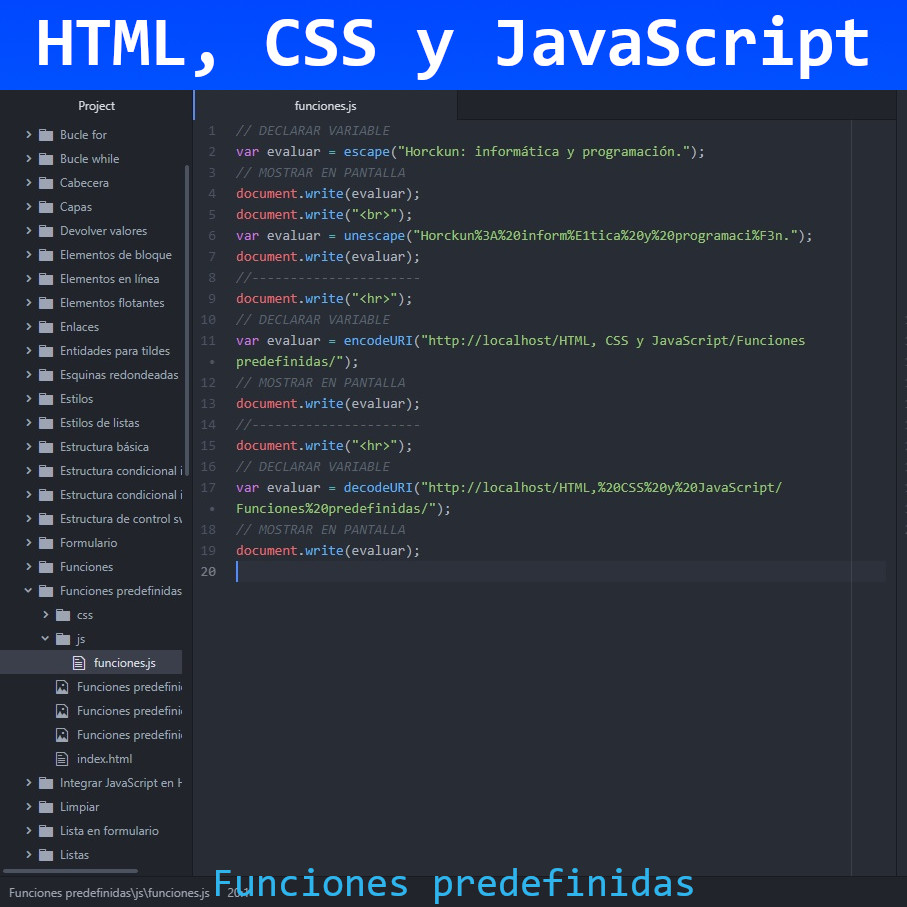
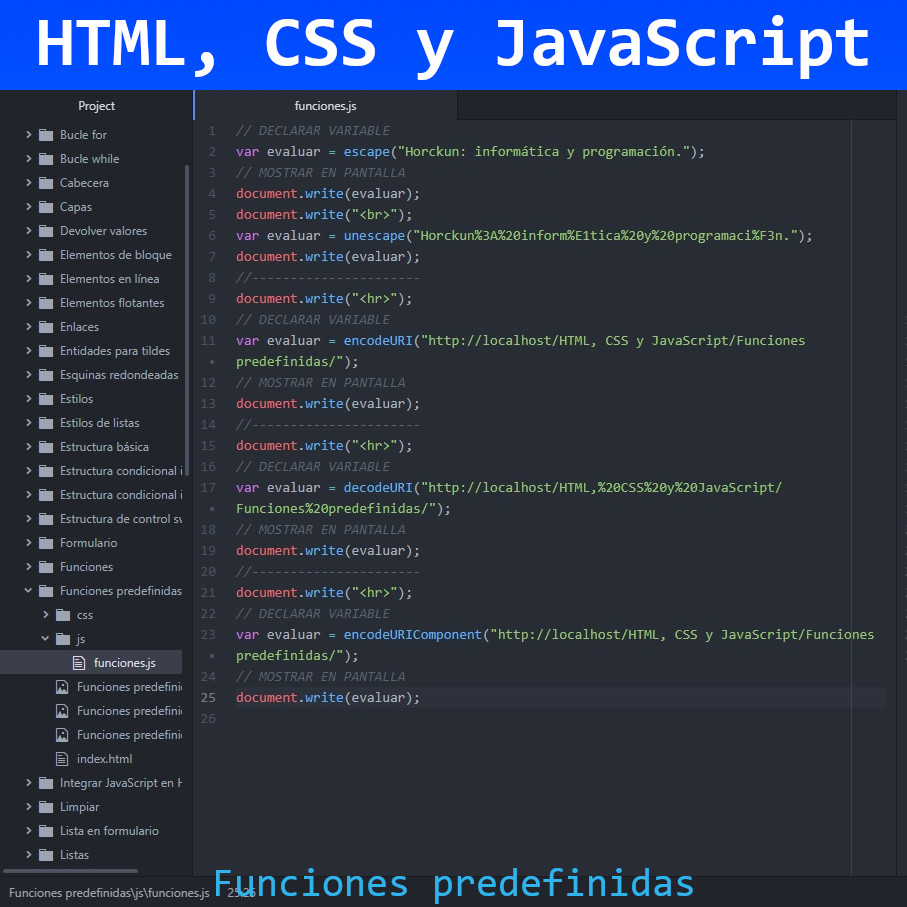
Funciones predefinidas
Funciones predefinidas en JavaScript

Changed region(s): [[0.247, 0.6174, 0.7718, 0.7718], [0.8026, 0.6792, 0.957, 0.71]]

diff --git a/HTML, CSS y JavaScript/Funciones predefinidas/js/funciones.js b/HTML, CSS y JavaScript/Funciones predefinidas/js/funciones.js
@@ -17,3 +17,9 @@ document.write("<hr>");
 var evaluar = decodeURI("http://localhost/HTML,%20CSS%20y%20JavaScript/Funciones%20predefinidas/");
 // MOSTRAR EN PANTALLA
 document.write(evaluar);
+//----------------------
+document.write("<hr>");
+// DECLARAR VARIABLE
+var evaluar = encodeURIComponent("http://localhost/HTML, CSS y JavaScript/Funciones predefinidas/");
+// MOSTRAR EN PANTALLA
+document.write(evaluar);
